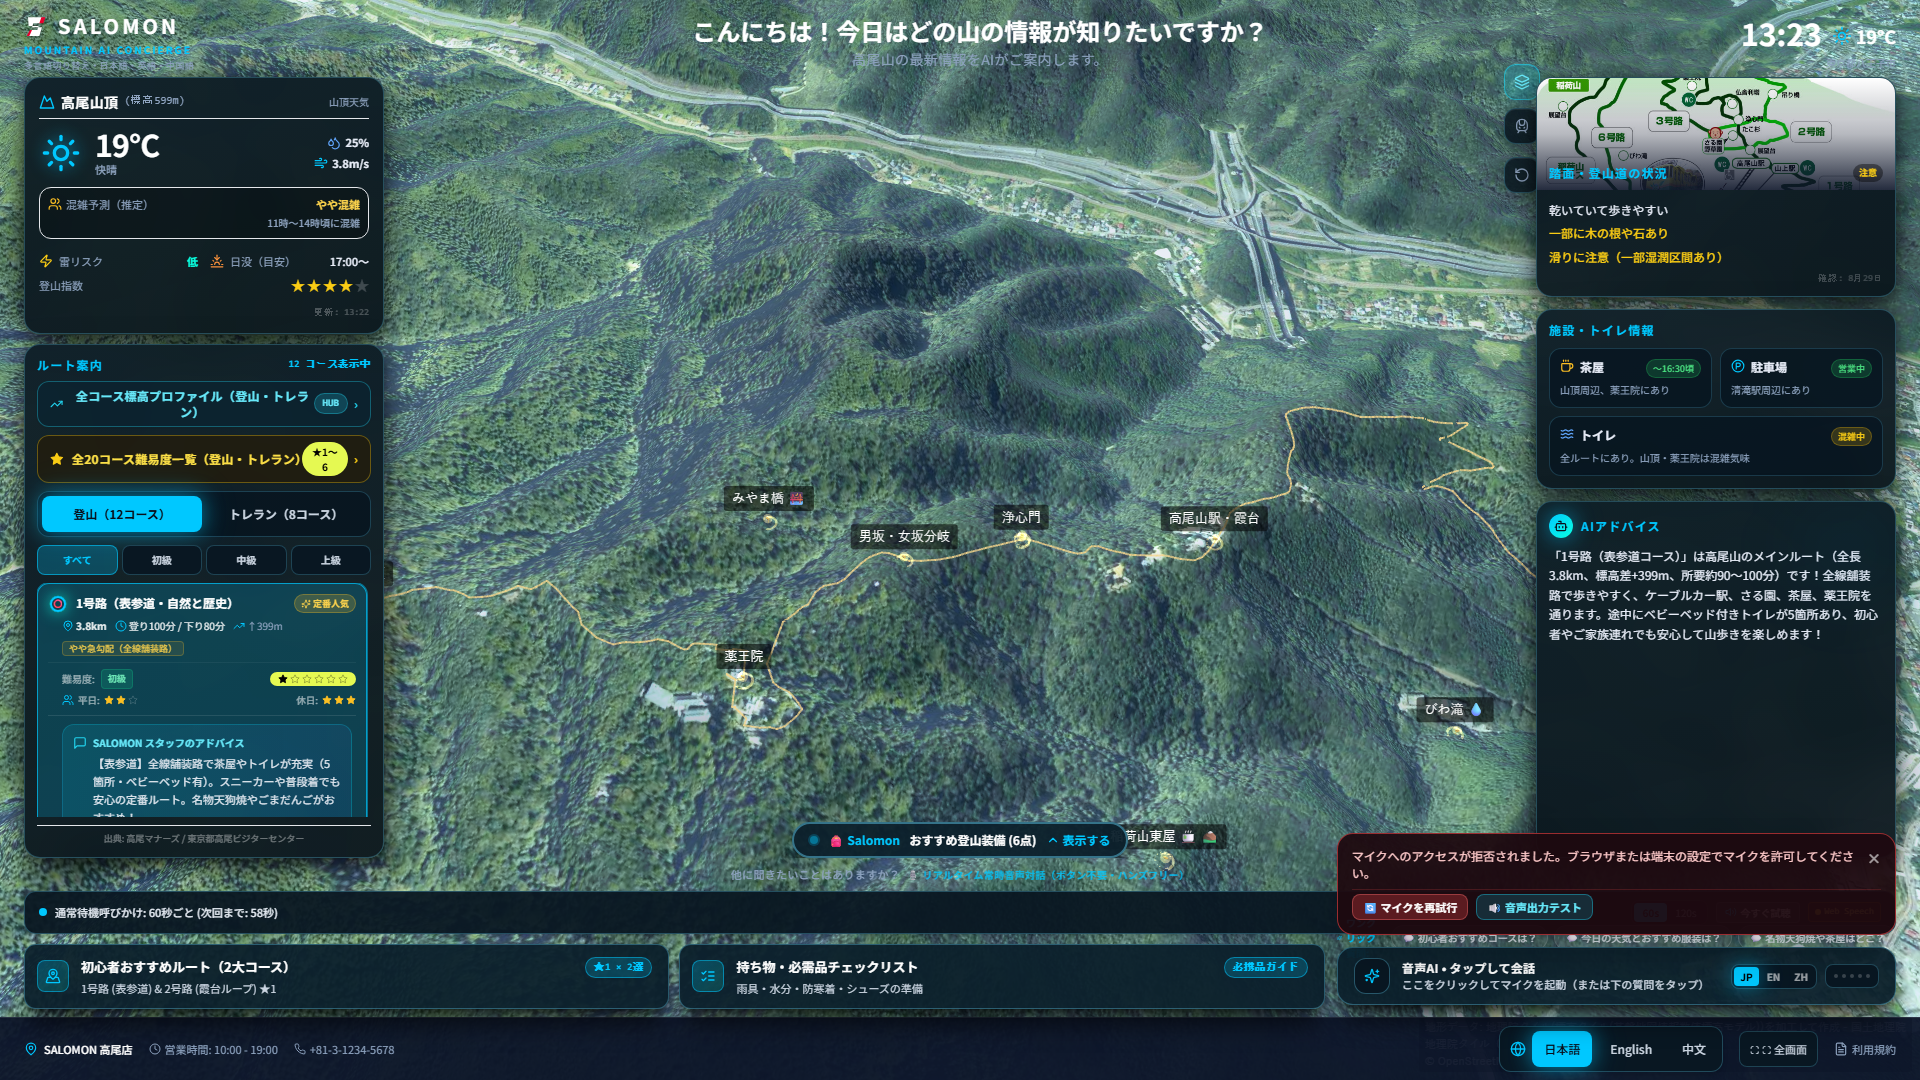
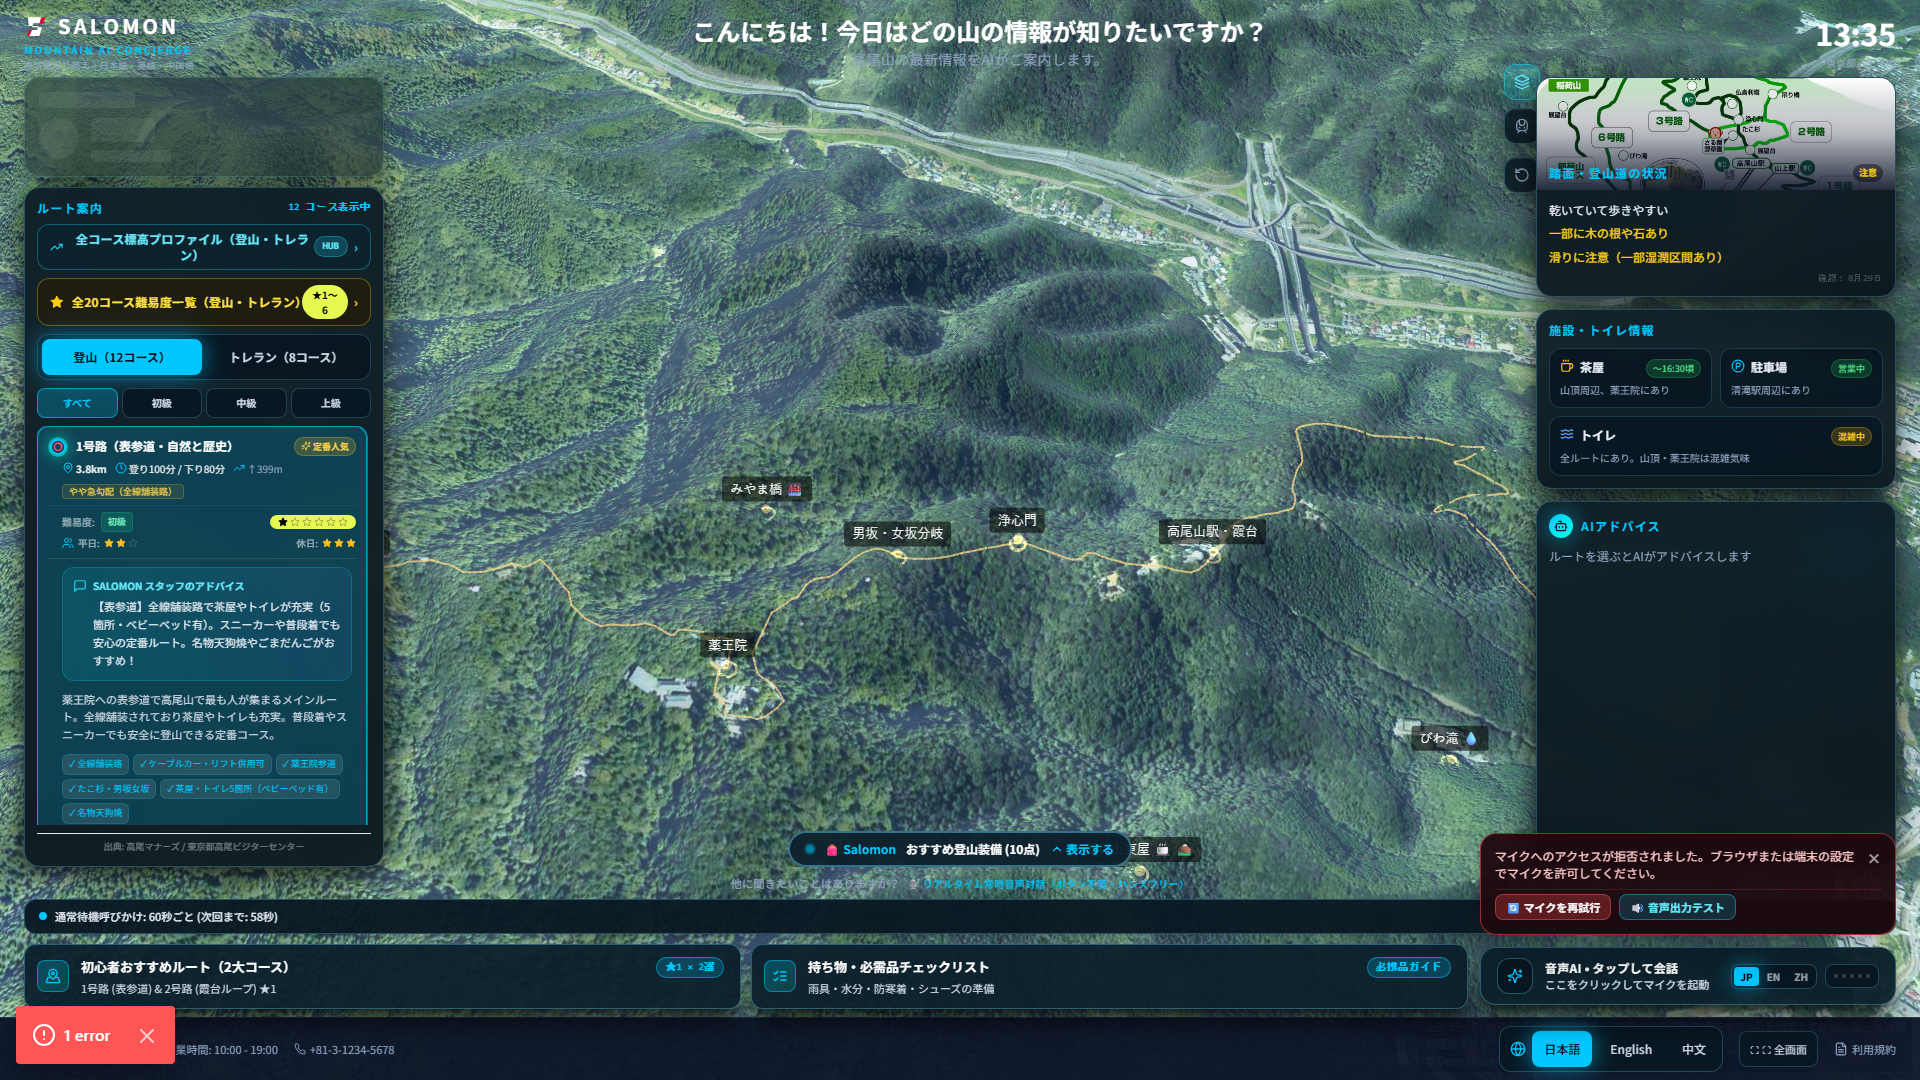
feat(ui): remove unnecessary quick action and debug buttons from bottom bar and voice card

diff --git a/src/components/QuickActions.tsx b/src/components/QuickActions.tsx
@@ -295,85 +295,13 @@ export function QuickActions() {
           </span>
         </div>
 
-        <div className="flex items-center gap-2 flex-shrink-0 ml-auto">
-          {/* Night Mode Badge when disabled */}
-          {!periodicCalloutEnabled && (
+        {!periodicCalloutEnabled && (
+          <div className="flex items-center gap-2 flex-shrink-0 ml-auto">
             <span className="px-2 py-0.5 rounded bg-black/40 border border-white/10 text-[10px] text-amber-300 font-medium flex items-center gap-1">
               <span>🌙 {language === 'en' ? 'Night Mode (Silent)' : language === 'zh' ? '夜间静音中' : '夜間停止中（完全無音）'}</span>
             </span>
-          )}
-
-          {/* Timing toggle: 60s or 120s (shown when in standby and callout is enabled) */}
-          {periodicCalloutEnabled && calloutMode === 'standby' && (
-            <div className="flex items-center bg-black/40 rounded-lg p-0.5 border border-white/10 text-[10px]">
-              <button
-                onClick={() => handleSetCalloutInterval(60)}
-                className={`px-2 py-0.5 rounded transition-colors ${
-                  calloutInterval === 60
-                    ? 'bg-salomon-cyan text-salomon-black font-bold shadow-sm'
-                    : 'text-slate-400 hover:text-white'
-                }`}
-                title={language === 'en' ? 'Set periodic callout to 60 seconds' : '60秒ごとに自動呼びかけ'}
-              >
-                60s
-              </button>
-              <button
-                onClick={() => handleSetCalloutInterval(120)}
-                className={`px-2 py-0.5 rounded transition-colors ${
-                  calloutInterval === 120
-                    ? 'bg-salomon-cyan text-salomon-black font-bold shadow-sm'
-                    : 'text-slate-400 hover:text-white'
-                }`}
-                title={language === 'en' ? 'Set periodic callout to 120 seconds' : '120秒ごとに自動呼びかけ'}
-              >
-                120s
-              </button>
-            </div>
-          )}
-
-          {/* Instant Test Callout */}
-          <button
-            onClick={() => {
-              unlockAudio();
-              triggerCallout(true);
-            }}
-            className="px-2 py-0.5 rounded bg-white/10 hover:bg-salomon-cyan/20 border border-white/15 hover:border-salomon-cyan/50 text-[10px] text-white transition-all flex items-center gap-1"
-            title={language === 'en' ? 'Play attract callout speech immediately' : '今すぐ呼びかけ音声を試聴再生'}
-          >
-            <Volume2 className="w-3 h-3 text-salomon-cyan" />
-            <span>{language === 'en' ? 'Play Intro' : language === 'zh' ? '试听呼出' : '今すぐ試聴'}</span>
-          </button>
-
-          {/* Audio Unlock indicator if browser blocked autoplay */}
-          {!unlocked && (
-            <button
-              onClick={() => unlockAudio()}
-              className="px-2 py-0.5 rounded bg-amber-500/20 hover:bg-amber-500/30 border border-amber-400/50 text-[10px] text-amber-300 font-medium transition-all animate-pulse flex items-center gap-1"
-              title="ブラウザの自動再生制限を解除"
-            >
-              <span>🔊 {language === 'en' ? 'Enable Sound' : language === 'zh' ? '启用声音' : '音声を有効化'}</span>
-            </button>
-          )}
-
-          {/* OpenAI API Key Status Badge */}
-          {openaiConfigured !== null && (
-            <span
-              className={`px-1.5 py-0.5 rounded text-[9px] font-mono border flex items-center gap-1 ${
-                openaiConfigured
-                  ? 'bg-emerald-950/60 border-emerald-500/40 text-emerald-300'
-                  : 'bg-amber-950/60 border-amber-500/40 text-amber-300'
-              }`}
-              title={
-                openaiConfigured
-                  ? 'OpenAI Studio Neural Voice (alloy) & GPT-4o-mini active'
-                  : 'OpenAI API key not set in .env.local — using browser speech synthesis'
-              }
-            >
-              <span className={`w-1.5 h-1.5 rounded-full ${openaiConfigured ? 'bg-emerald-400' : 'bg-amber-400'}`} />
-              {openaiConfigured ? 'OpenAI TTS' : 'Web Speech'}
-            </span>
-          )}
-        </div>
+          </div>
+        )}
       </div>
 
       {/* Action cards and Push-to-Talk Voice Concierge Button */}

diff --git a/src/components/VoiceHUD.tsx b/src/components/VoiceHUD.tsx
@@ -38,14 +38,6 @@ export function VoiceHUD({
   const isSpeaking     = status === 'speaking';
   const isIdle         = status === 'idle';
 
-  // Sample prompt chips for instant zero-friction voice interaction
-  const SAMPLE_QUESTIONS =
-    language === 'en'
-      ? ['Beginner trails?', 'Current weather & gear?', 'Famous snacks & shrines?']
-      : language === 'zh'
-      ? ['推荐初学者路线？', '山顶天气与穿搭？', '特色美食与景点？']
-      : ['初心者おすすめコースは？', '今日の天気とおすすめ服装は？', '名物天狗焼や茶屋はどこ？'];
-
   // Localized quote styling helper: English uses "", Chinese uses “”, Japanese uses 「」
   const formatQuote = (text: string) => {
     if (!text) return '';
@@ -79,7 +71,7 @@ export function VoiceHUD({
     ? (language === 'en' ? 'Processing your request...' : language === 'zh' ? '正在处理...' : '処理中...')
     : isSpeaking
     ? (language === 'en' ? 'Answering your question...' : language === 'zh' ? '正在回答您的问题…' : 'ご質問にお答えしています…')
-    : (language === 'en' ? 'Click here to speak or select quick questions below' : language === 'zh' ? '点击此处启动麦克风，或选择下方快捷提问' : 'ここをクリックしてマイクを起動（または下の質問をタップ）');
+    : (language === 'en' ? 'Click here to activate microphone' : language === 'zh' ? '点击此处启动麦克风对话' : 'ここをクリックしてマイクを起動');
 
   return (
     <div className="relative w-full md:w-auto">
@@ -114,27 +106,7 @@ export function VoiceHUD({
         </div>
       )}
 
-      {/* ── Quick Question Suggestions Chips (Always accessible for zero-friction interaction) ── */}
-      {isIdle && onSubmitQuestion && (
-        <div className="hidden sm:flex items-center gap-1.5 absolute -top-8 right-0 animate-fadeIn">
-          <span className="text-[10px] text-salomon-cyan font-bold flex items-center gap-1 mr-1">
-            <Sparkles className="w-3 h-3" />
-            {language === 'en' ? 'Quick AI Ask:' : language === 'zh' ? '快捷提问:' : 'ワンクリック質問:'}
-          </span>
-          {SAMPLE_QUESTIONS.map((q, idx) => (
-            <button
-              key={idx}
-              onClick={(e) => {
-                e.stopPropagation();
-                onSubmitQuestion(q);
-              }}
-              className="px-2.5 py-1 rounded-full bg-white/[0.08] hover:bg-salomon-cyan/25 border border-white/15 hover:border-salomon-cyan/50 text-[10px] text-slate-200 hover:text-white transition-all duration-200 shadow-sm whitespace-nowrap active:scale-95"
-            >
-              💬 {q}
-            </button>
-          ))}
-        </div>
-      )}
+
 
       {/* ── Active Conversation Floating Card (Shows BOTH User Question and AI Response) ── */}
       {(transcript || responseText || isThinking || isSpeaking) && (

diff --git a/src/components/ConciergeApp.tsx b/src/components/ConciergeApp.tsx
@@ -397,13 +397,12 @@ function MainApp() {
 
 /* ── Entry point ────────────────────────────────────────────────────────── */
 export function ConciergeApp() {
-  const [splashDone, setSplashDone] = useState(false);
-
-  useEffect(() => {
+  const [splashDone, setSplashDone] = useState(() => {
     if (typeof window !== 'undefined' && window.location.search.includes('nosplash')) {
-      setSplashDone(true);
+      return true;
     }
-  }, []);
+    return false;
+  });
 
   return splashDone
     ? <MainApp />
